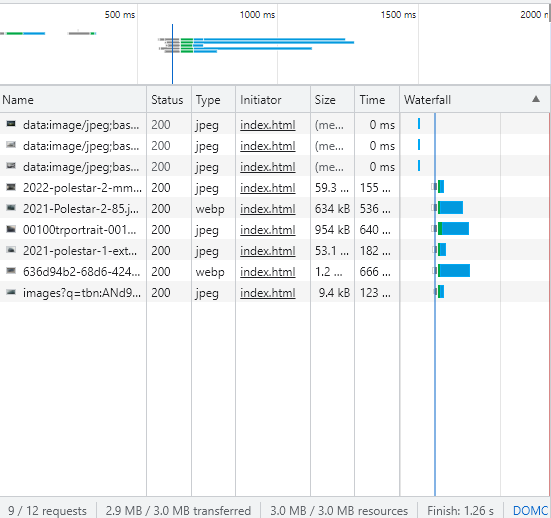
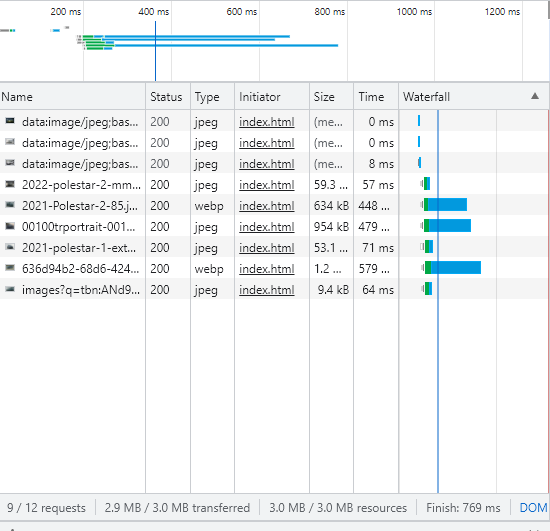
//updated values

Changed region(s): [[0.0, 0.0, 1.0, 1.0], [0.8964, 0.2162, 0.9273, 0.2471]]

diff --git a/index.html b/index.html
@@ -23,7 +23,7 @@
     <img loading = "lazy" src="https://media.ed.edmunds-media.com/polestar/1/2020/oem/2020_polestar_1_coupe_base_fq_oem_1_815.jpg" alt="" class="img-container">
     <img loading = "lazy" src="https://images.wsj.net/im-407095?width=1280&size=1" alt="" class="img-container">
     <img loading = "lazy" src="https://s1.cdn.autoevolution.com/images/news/gallery/polestar-fans-rejoice-check-two-possibilities-for-the-polestar-3s-looks_2.jpg" alt="" class="img-container">
-    <img loading = "lazy" src="https://www.mercurynews.com/wp-content/uploads/2021/05/0502_2021Polestar2ElectricSedan_SNDrive_F.jpg" alt="" class="img-container">
+    <img  loading = "lazy" src="https://www.mercurynews.com/wp-content/uploads/2021/05/0502_2021Polestar2ElectricSedan_SNDrive_F.jpg" alt="" class="img-container">
 
 </body>
 </html>

diff --git a/README.md b/README.md
@@ -21,7 +21,7 @@ The HTML document contains 15 images of different models of Polestar cars. There
 ![Screenshot](attempt1.png)
 
 This attempt processed, loaded, and displayed all 15 pictures immediately. 
-176kB was transferred. 4.0MB resources were used. The task finished in 224 ms.
+4.0MB was transferred. 4.0MB resources were used. The task finished in 1.25s.
 
 # Attempt 1
 I gave each image attribute
@@ -29,6 +29,5 @@ loading: "lazy"
 
 ![Screenshot](attempt2.png)
 
-Interestingly enough, this method cut the finish time by nearly 100 ms. 
-But I don't understand why there are still 14 images that are showing up in this list. In tutorials, you have to scroll down
-and images will pop in the list as you scroll. 
+Interestingly enough, this method did reduce the initial loading. 
+But I don't understand why there are still list items that are showing up in this list. 
